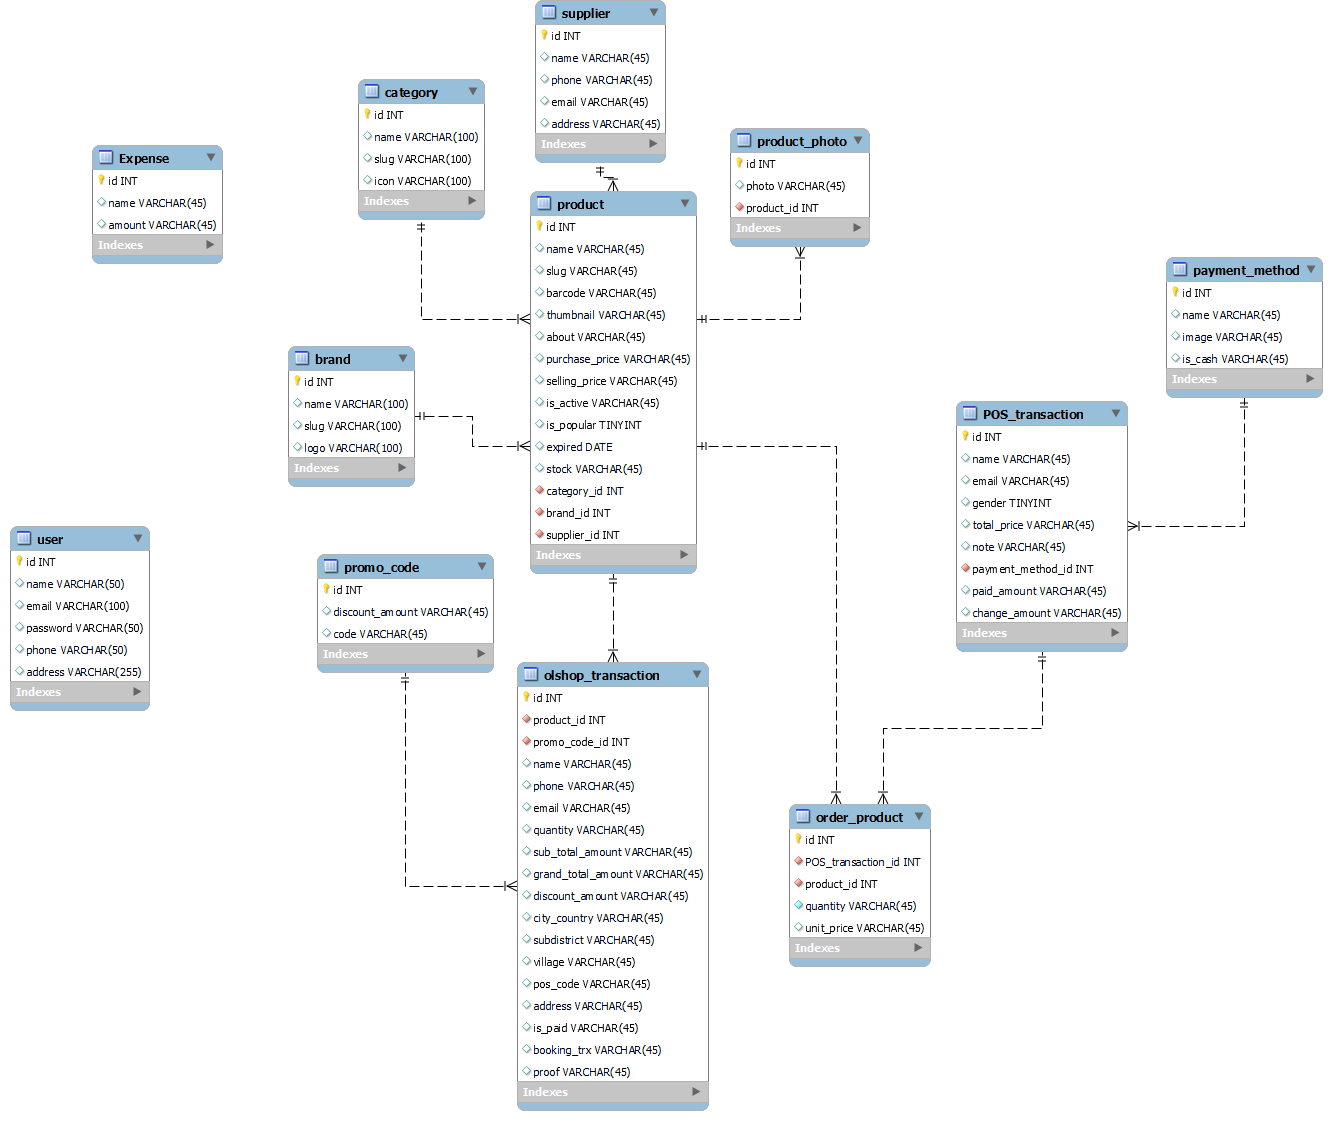
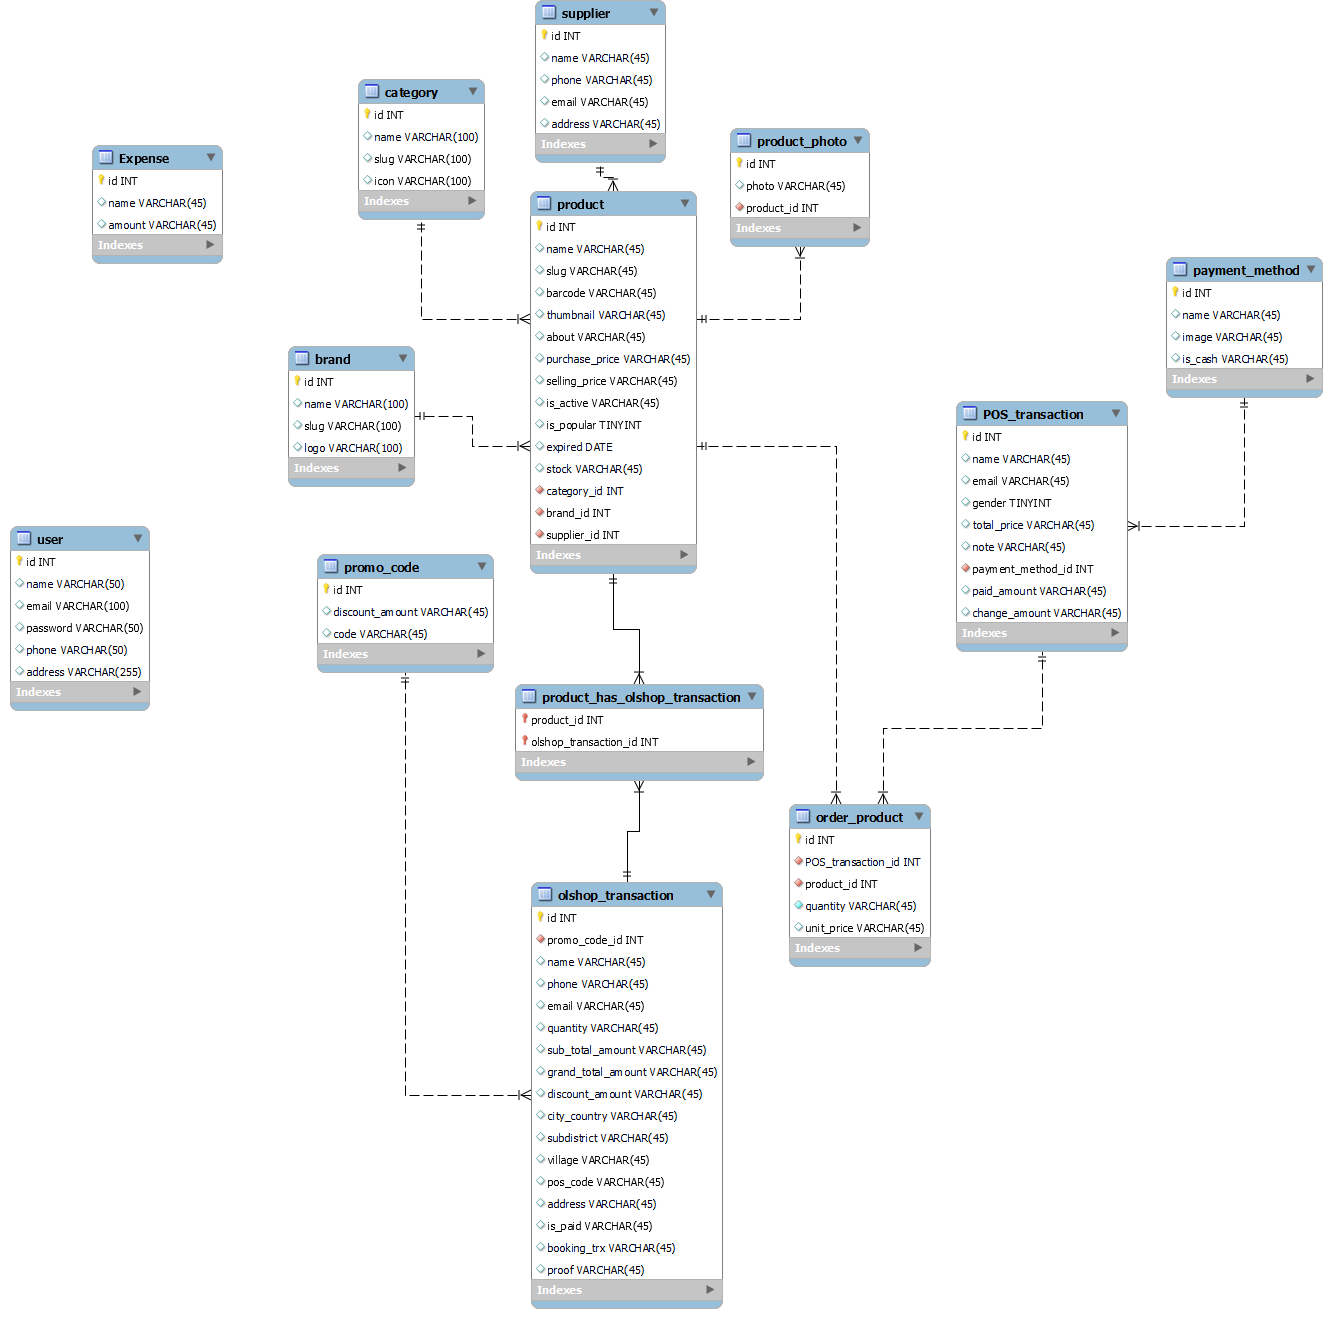
update olshop transaction

diff --git a/app/Filament/Resources/OlshoptransactionResource.php b/app/Filament/Resources/OlshoptransactionResource.php
@@ -191,7 +191,8 @@ class OlshoptransactionResource extends Resource
                                 ->required()
                                 ->readOnly()
                                 ->numeric()
-                                ->default(0),
+                                ->default(0)
+                                ->live(),
                         ]),
                     Forms\Components\Wizard\Step::make('Customer Information')
                         ->description('')
@@ -433,19 +434,15 @@ class OlshoptransactionResource extends Resource
 
     protected static function updateGrandTotalAmount(callable $get, callable $set): void
     {
-        $products = $get('products');
-        $allSubTotalAmount = 0;
+        $products = $get('products') ?? [];
         $discount = $get('discount_amount') ?? 0;
+        $total = 0;
 
-        if (is_array($products)) {
-            foreach ($products as $product) {
-                if (isset($product['sub_total_amount'])) {
-                    $allSubTotalAmount += $product['sub_total_amount'];
-                }
-            }
+        foreach ($products as $product) {
+            $total += $product['sub_total_amount'] ?? 0;
         }
 
-        $grandTotalAmount = $allSubTotalAmount - $discount;
-        $set('grand_total_amount', $grandTotalAmount);
+        $grandTotal = $total - $discount;
+        $set('grand_total_amount', $grandTotal);
     }
 }
